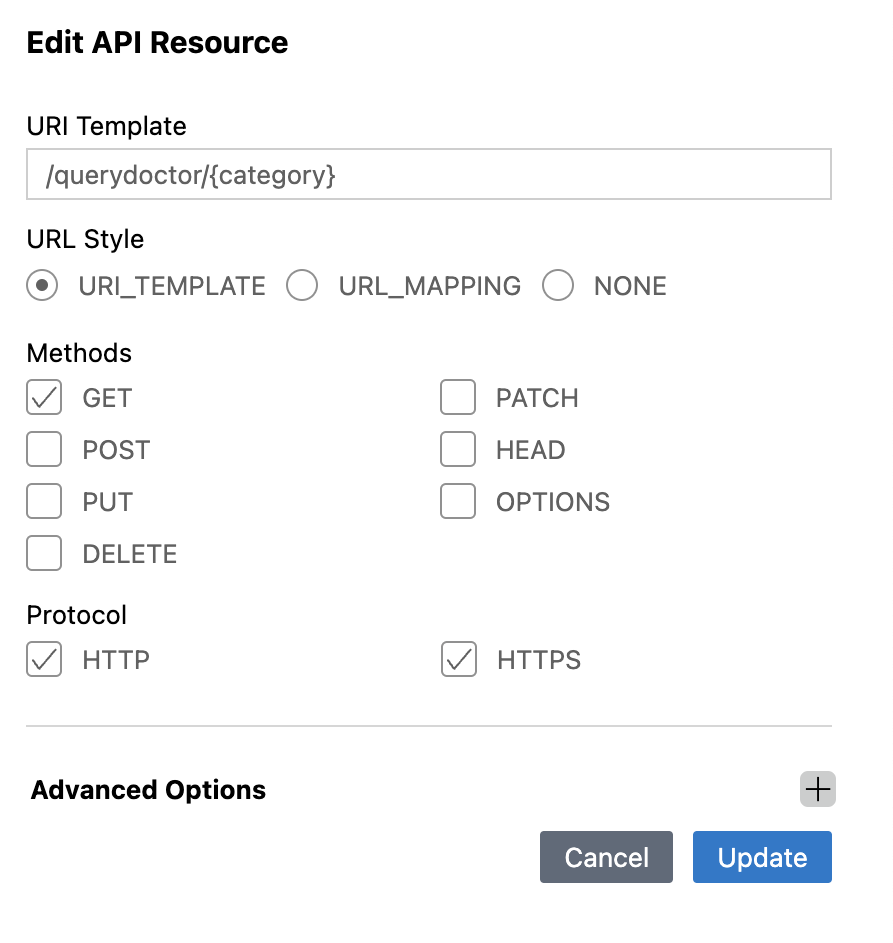
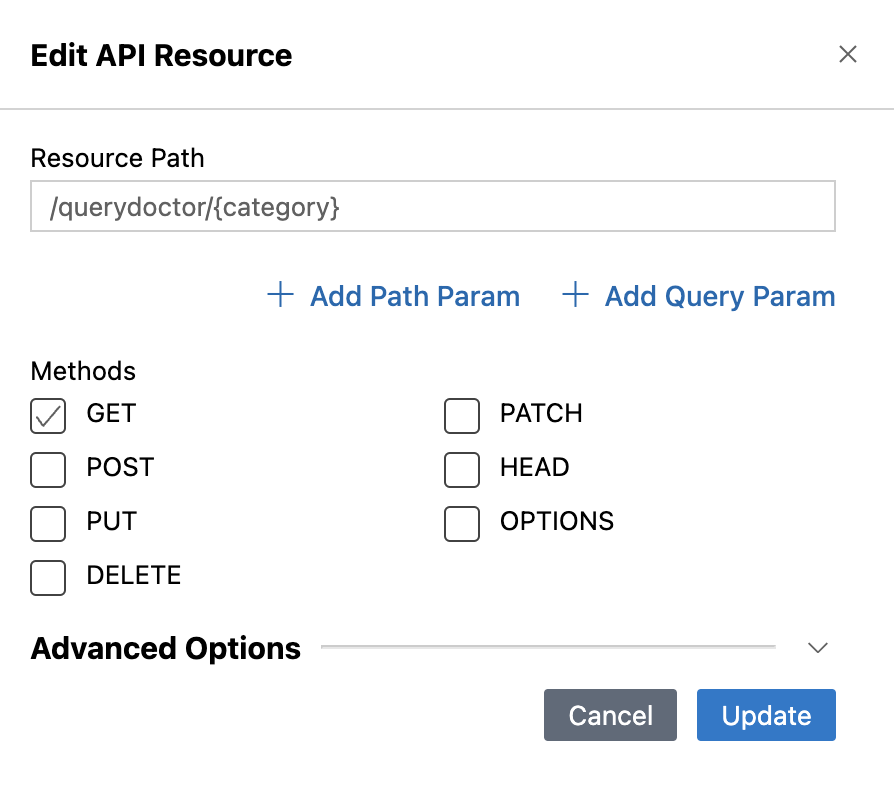
update service catalog tutorial

diff --git a/en/docs/learn/integration-tutorials/service-catalog-tutorial.md b/en/docs/learn/integration-tutorials/service-catalog-tutorial.md
@@ -56,74 +56,54 @@ Follow the instructions given in this section to create and configure the requir
 
 Now let's start designing the integration by adding the necessary artifacts.
 
-#### Create an Endpoint
+#### Create HTTP Connection 
 
-An Endpoint artifact is required to expose the back-end service.
+1. Navigate to **Micro Integrator Project Explorer**.
 
-1. Navigate to the **MI Project Explorer** > **Endpoints**.
+2. Click on the **+** symbol to open the **Add Artifact** pane.
 
-    <a href="{{base_path}}/assets/img/develop/create-artifacts/create-endpoint/create-new-endpoint.png"><img src="{{base_path}}/assets/img/develop/create-artifacts/create-endpoint/create-new-endpoint.png" alt="create new endpoint" width="30%"></a>
+    <a href="{{base_path}}/assets/img/develop/create-artifacts/add-artifact-icon.png"><img src="{{base_path}}/assets/img/develop/create-artifacts/add-artifact-icon.png" alt="add artifact" width="80%"></a>
 
-2. Hover over **Endpoints** and click the **+** icon that appears.
+3. Click **+ View More** under **Create an Integration**.
 
-    <a href="{{base_path}}/assets/img/learn/tutorials/add-endpoint.png"><img src="{{base_path}}/assets/img/learn/tutorials/add-endpoint.png" alt="Add endpoint" width="30%"></a>
+4. Select **Connections** under **Other Artifacts** to open the **Connector Store Form**.
 
-3. Next, select **HTTP Endpoint** type from the **Create Endpoint Artifact** interface.
+5. Select **Http**.
 
-    <a href="{{base_path}}/assets/img/develop/mi-for-vscode/qsg/create-http-endpoint.png"><img src="{{base_path}}/assets/img/develop/mi-for-vscode/qsg/create-http-endpoint.png" alt="Create HTTP Endpoint" width="60%"></a>
-
-4. In the **HTTP Endpoint Form** that appears, specify the following values to create the new endpoint. 
-
+6. In the **Add New Connection** form, specify the following values to create the new HTTP connection.
     <table>
-    <thead>
-      <tr>
-         <th>Property</th>
-         <th>Value</th>
-         <th>Description</th>
-      </tr>
-    </thead>
-    <tbody>
-      <tr>
-         <td>Endpoint Name</td>
-         <td><code>QueryDoctorEP</code></td>
-         <td>The name of the endpoint.</td>
-      </tr>
-      <tr>
-         <td>URI Template</td>
-         <td>
-            <code>http://localhost:9090/healthcare/{uri.var.category}</code>
-         </td>
-         <td>The template for the request URL expected by the back-end service. In this case, the variable 'category' that needs to be included in the request for querying doctors is represented as <code>{uri.var.category}</code> in the template.</td>
-      </tr>
-      <tr>
-         <td>Method</td>
-         <td><code>GET</code></td>
-         <td>Indicates that we are creating this endpoint for GET requests that are sent to the back-end service.</td>
-      </tr>
-     </tbody>
+        <thead>
+          <tr>
+             <th>Property</th>
+             <th>Value</th>
+             <th>Description</th>
+          </tr>
+        </thead>
+        <tbody>
+          <tr>
+             <td>Connection Name</td>
+             <td><code>QueryDoctorConn</code></td>
+             <td>The name of the connection.</td>
+          </tr>
+          <tr>
+             <td>Base URL</td>
+             <td>
+                <code>http://localhost:9090/healthcare</code>
+             </td>
+             <td>The base of the request URL for the back-end service.</td>
+          </tr>
+        </tbody>
     </table>
 
-    <a href="{{base_path}}/assets/img/learn/tutorials/sending-simple-message-to-service/endpoint-artifact.png"><img src="{{base_path}}/assets/img/learn/tutorials/sending-simple-message-to-service/endpoint-artifact.png" alt="endpoint artifact" width="80%"></a>
-
-5. Click **Create**.
-
-    Once the endpoint artifact is created, it will appear on the **MI Overview** interface.    
-
-    <a href="{{base_path}}/assets/img/learn/tutorials/sending-simple-message-to-service/mi-overview-endpoint.png"><img src="{{base_path}}/assets/img/integrate/tutorials/service-catalog/service-catalog-project-overview.png" alt="mi overview endpoint" width="80%"></a>
+4. Click **Add**.
 
 #### Create a REST API
 
 A REST API is required for receiving the client requests and the REST resource within the API will define the mediation logic that will send requests to the Healthcare back-end service and retrieve the available doctor information.
 
-1. Go to **MI Project Explorer** > **APIs**.
+1. Go to **MI Project Explorer** > **+ Add Artifact** > **API**.
 
-    <a href="{{base_path}}/assets/img/develop/create-artifacts/create-rest-api/create-rest-api.png"><img src="{{base_path}}/assets/img/develop/create-artifacts/create-rest-api/create-rest-api.png" alt="create new api" width="30%"></a>
-
-2. Hover over **APIs** and click the **+** icon that appears to open the **API Form**.
-
-    <a href="{{base_path}}/assets/img/learn/tutorials/add-api.png"><img src="{{base_path}}/assets/img/learn/tutorials/add-api.png" alt="add API" width="30%"></a>
-
-3. Specify values for the required REST API properties:
+2. Specify values for the required REST API properties:
 
     <table>
       <tr>
@@ -142,26 +122,26 @@ A REST API is required for receiving the client requests and the REST resource w
         <td>Context</td>
         <td><code>/healthcare</code></td>
         <td>
-          Here you are anchoring the API in the <code>/healthcare </code> context. This will become part of the name of the generated URL used by the client when sending requests to the Healthcare service. For example, setting the context to <code>/healthcare</code> means that the API will only handle HTTP requests where the URL path starts with <code>http://host:port/healthcare<code>.
+          Here you are anchoring the API in the <code>/healthcare </code> context. This will become part of the name of the generated URL used by the client when sending requests to the Healthcare service. For example, setting the context to <code>/healthcare</code> means that the API will only handle HTTP requests where the URL path starts with <code>http://host:port/healthcare</code>.
         </td>
       </tr>
     </table>
 
     <a href="{{base_path}}/assets/img/integrate/tutorials/service-catalog/synapse-api-creation-form.png"><img src="{{base_path}}/assets/img/integrate/tutorials/service-catalog/synapse-api-creation-form.png" alt="synapse API artifact" width="80%"></a>
 
-4. Click **Create**. This opens the **Service Designer** interface.
+3. Click **Create**. This opens the **Service Designer** interface.
 
     You can now start configuring the API resource.
 
-5. Click on the `GET` API resource under **Available resources** on the **Service Designer**.
+4. Click on the `GET` API resource under **Available resources** on the **Service Designer**.
 
     You will now see the graphical view of the `HealthcareAPI` with its default API Resource.
 
-6. Click the **Edit** icon to edit the API resource.
+5. Click the **Edit** icon to edit the API resource.
 
     <a href="{{base_path}}/assets/img/learn/tutorials/sending-simple-message-to-service/edit-icon.png"><img src="{{base_path}}/assets/img/learn/tutorials/sending-simple-message-to-service/edit-icon.png" alt="edit icon" width="80%"></a>
 
-7. Specify values for the required resource properties:
+6. Specify values for the required resource properties:
 
     <table>
       <tr>
@@ -169,15 +149,9 @@ A REST API is required for receiving the client requests and the REST resource w
         <th>Description</th>
       </tr>
       <tr>
-        <td>URI-Template</td>
+        <td>Resource Path</td>
         <td>
           <code>/querydoctor/{category}</code> </br> This defines the request URL format. In this case, the full request URL format is <code>http://host:port/querydoctor/{category}</code> where <code>{category}</code> is a variable.
-        </td>
-      </tr>
-      <tr>
-        <td>URL Style</td>
-        <td>
-          <code>URI_TEMPLATE</code>
         </td>
       </tr>
       <tr>
@@ -190,7 +164,7 @@ A REST API is required for receiving the client requests and the REST resource w
 
     <a href="{{base_path}}/assets/img/learn/tutorials/sending-simple-message-to-service/edit-api-resource.png"><img src="{{base_path}}/assets/img/learn/tutorials/sending-simple-message-to-service/edit-api-resource.png" alt="edit API resource" width="40%"></a>
 
-8. Click **Update**.
+7. Click **Update**.
 
 #### Create the mediation logic
 
@@ -200,100 +174,87 @@ You can now configure the mediation logic to handle requests.
 
     <a href="{{base_path}}/assets/img/learn/tutorials/sending-simple-message-to-service/add-log.png"><img src="{{base_path}}/assets/img/learn/tutorials/sending-simple-message-to-service/add-log.png" alt="add log" width="80%"></a>
 
-2. Select **Log** mediator in the **Generic** section under **All Mediators**. The Log mediator logs messages when the request is received by the API resource. In this scenario, let's configure the Log mediator to display the following message: “Welcome to the HealthcareService”.
+2. Select **Log** mediator in the **Mediators** section. The Log mediator logs messages when the request is received by the API resource. In this scenario, let's configure the Log mediator to display the following message: “Welcome to the HealthcareService”.
 
 3. Once you select the Log mediator, the **Log** pane will be opened. Fill in the information in the table below:
-    <table>
-  <tr>
-     <th>Field</th>
-     <th>Value</th>
-     <th>Description</th>
-  </tr>
-<tbody>
-  <tr>
-     <td>Log Category</td>
-     <td><code>INFO</code></td>
-     <td>Indicates that the log contains an informational message.</td>
-  </tr>
-  <tr>
-     <td>Log Level</td>
-     <td><code>Custom</code></td>
-     <td>When <code>Custom</code> is selected, only specified properties will be logged by this mediator.
-     </td>
-  </tr>
-  <tr>
-     <td>Log Separator</td>
-     <td><code>(blank)</code></td>
-     <td>Since there is only one property that is being logged, you do not require a separator. Therefore, leave this field blank.</td>
-  </tr>
-  <tr>
-     <td>Properties</td>
-     <td><br />
-     </td>
-     <td>
-        <div class="content-wrapper">
-           1. To edit the **Properties** and print a welcome message in the log, click **Add Parameter**. <br />
-               <a href="{{base_path}}/assets/img/learn/tutorials/sending-simple-message-to-service/add-parameter.png"><img src="{{base_path}}/assets/img/learn/tutorials/sending-simple-message-to-service/add-parameter.png" alt="add-parameter" width="30%"></a>, <br />
-           2. Then add the following values:<br />
-           <ul>
-              <li><strong>Property Name</strong>: <code>Log Property message</code></li>
-              </li>
-              <li><strong>Property Value</strong> : <code>"Welcome to HealthcareService"</code></li>
-           </ul>
-           <p>
-           <a href="{{base_path}}/assets/img/learn/tutorials/sending-simple-message-to-service/log-property.png"><img src="{{base_path}}/assets/img/learn/tutorials/sending-simple-message-to-service/log-property.png" alt="log-property" width="30%"></a></p> <br />
-         3. Click **Save** to save the properties.
-        </div>
-     </td>
-  </tr>
-  <tr>
-     <td>Description</td>
-     <td><code>Request Log</code></td>
-     <td>The <strong>Description</strong> field provides the name that appears for the Log mediator icon in the design view.</td>
+<table>
+    <tr>
+         <th>Field</th>
+         <th>Value</th>
+         <th>Description</th>
     </tr>
+    <tbody>
+        <tr>
+             <td>Log Category</td>
+             <td><code>INFO</code></td>
+             <td>Indicates that the log contains an informational message.</td>
+        </tr>
+        <tr>
+             <td>Message</td>
+             <td><code>Welcome to HealthcareService</code></td>
+             <td>Indicates the message.</td>
+        </tr> 
+        <tr>
+             <td>Description</td>
+             <td><code>Request Log</code></td>
+             <td>The <strong>Description</strong> field provides the name that appears for the Log mediator icon in the design view.</td>
+        </tr>
     </tbody>
+</table>
+
+4. Click **Submit** to save the Log mediator configuration.
+
+    Let's configure a `GET` operation to send the request message to the `HealthcareService` endpoint and receive the response message.
+
+5. Click on the **+** icon in the sequence to add a **GET** operation for **QueryDoctorConn** after the Log mediator.
+From the palette, select **Mediators** > **HTTP** > **GET** operation.
+
+    <a href="{{base_path}}/assets/img/learn/tutorials/sending-simple-message-to-service/http-connector-get-operation.png"><img src="{{base_path}}/assets/img/learn/tutorials/sending-simple-message-to-service/http-connector-get-operation.png" alt="http connector get operation" width="30%"></a>
+
+6. Once the **GET** operation form is opened, fill in the information in the table below:
+
+    <table>
+        <tr>
+             <th>Field</th>
+             <th>Value</th>
+             <th>Description</th>
+        </tr>
+        <tbody>
+            <tr>
+                 <td>Connection</td>
+                 <td><code>QueryDoctorConn</code></td>
+                 <td>The connection to be used to execute the operation.</td>
+            </tr>
+            <tr>
+                 <td>Relative Path</td>
+                 <td><code>/${params.uriParams.category}</code></td>
+                 <td>Indicates the relative path added to the base URL of the connection. In this case, 
+    the variable 'category' that needs to be included in the request for querying doctors is represented as 
+    <code>{params.uriParams.category}</code> in the relative path.</td>
+            </tr>
+        </tbody>
     </table>
-
-3.  Click **Submit** to save the Log mediator configuration.
-
-    Let's configure a **Call** mediator to send the request message to the `HealthcareService` endpoint and receive the response message.
-
-4. Click on the **+** icon in the sequence to add a Call mediator after the Log mediator.
-
-    <a href="{{base_path}}/assets/img/learn/tutorials/sending-simple-message-to-service/add-call.png"><img src="{{base_path}}/assets/img/learn/tutorials/sending-simple-message-to-service/add-call.png" alt="add call" width="80%"></a>
-
-5. From the **Palette**, select **Call Endpoint** mediator under the **Mediators** > **Generic** section.
-
-    <a href="{{base_path}}/assets/img/learn/tutorials/sending-simple-message-to-service/call-endpoint-mediator.png"><img src="{{base_path}}/assets/img/learn/tutorials/sending-simple-message-to-service/call-endpoint-mediator.png" alt="call endpoint mediator" width="30%"></a>
-
-6. From the **Call Endpoint** pane, select the **QueryDoctorEP** endpoint, which we created in a previous step.
-
-    <a href="{{base_path}}/assets/img/learn/tutorials/sending-simple-message-to-service/call-endpoint.png"><img src="{{base_path}}/assets/img/learn/tutorials/sending-simple-message-to-service/call-endpoint.png" alt="call endpoint" width="30%"></a>
 
 7. Click **Submit**.
 
-    Now let's add a **Respond** mediator at the end of the in sequence to send the response message from the healthcare service back to the client.
+    Now let's add a **Respond** mediator at the end of the sequence to send the response message from the healthcare service back to the client.
 
-8. Click on the **+** icon in the sequence to add a Respond mediator after the Call mediator.
+8. Click on the **+** icon below the **GET** operation in the sequence to add a Respond mediator.
 
-    <a href="{{base_path}}/assets/img/learn/tutorials/sending-simple-message-to-service/add-respond.png"><img src="{{base_path}}/assets/img/learn/tutorials/sending-simple-message-to-service/add-respond.png" alt="add respond" width="80%"></a>
-
-9. From the **Palette**, select **Respond** mediator under the **Mediators** > **Generic** section.
-
-    <a href="{{base_path}}/assets/img/learn/tutorials/sending-simple-message-to-service/respond-mediator.png"><img src="{{base_path}}/assets/img/learn/tutorials/sending-simple-message-to-service/respond-mediator.png" alt="respond mediator" width="30%"></a>
+9. From the Palette, select **Respond** mediator under the **Mediators** section.
 
 10. Click **Submit**.
 
 You have successfully created all the artifacts that are required for sending a request through the Micro Integrator to the back-end service.
 
-<a href="{{base_path}}/assets/img/learn/tutorials/sending-simple-message-to-service/integration-sequence.png"><img src="{{base_path}}/assets/img/learn/tutorials/sending-simple-message-to-service/integration-sequence.png" alt="integration sequence" width="80%"></a>
+<a href="{{base_path}}/assets/img/learn/tutorials/sending-simple-message-to-service/integration-sequence-with-http-connector.png"><img src="{{base_path}}/assets/img/learn/tutorials/sending-simple-message-to-service/integration-sequence-with-http-connector.png" alt="integration sequence with http connector" width="80%"></a>
 
 ### Step 3: Configure the Micro Integrator
 
 !!! info "Prerequisites"
     Before you begin, install Micro Integrator on your machine:
 
-    1. Go to the [WSO2 Micro Integrator web page](https://wso2.com/integration/micro-integrator/#), click **Download**, provide necessary details, and then click **Zip Archive** to download the Micro Integrator distribution as a ZIP file.
+    1. Go to the [WSO2 Micro Integrator web page](https://wso2.com/integration/micro-integrator/#), click **Download**, provide the necessary details, and then click **Zip Archive** to download the Micro Integrator distribution as a ZIP file.
     
     2. Extract the ZIP file. The extracted folder will be referred to as the `<MI_HOME>` folder.
 
@@ -315,7 +276,7 @@ Let's enable this feature in the Micro Integrator.
     ```
 
 !!! Note
-    Since the integration developer may not know the API URL when it gets deployed in the Micro Integrator, the URL of the API will be parameterize as `https://{MI_HOST}:{MI_PORT}/healthcare` which will be resolved later using environment variables `MI_HOST` and `MI_PORT` respectively. By default, `localhost` will be used as the `MI_HOST` and `8253` as the `MI_PORT`. Depending on your deployment, you may need to update these environment variables.
+    Since the integration developer may not know the API URL when it gets deployed in the Micro Integrator, the URL of the API will be parameterized as `https://{MI_HOST}:{MI_PORT}/healthcare` which will be resolved later using environment variables `MI_HOST` and `MI_PORT` respectively. By default, `localhost` will be used as the `MI_HOST` and `8253` as the `MI_PORT`. Depending on your deployment, you may need to update these environment variables.
 
 ### Step 4: Start the API Manager runtime
 
@@ -340,7 +301,7 @@ Let's start the API Manager runtime before starting the Micro Integrator.
 
 6. Run the project.
 
-    Click the **Build and Run** icon located on the top right corner of the VS Code.
+    Click the **Build and Run** icon located in the top right corner of the VS Code.
 
     <a href="../../../assets/img/develop/mi-for-vscode/qsg/build-and-run.png"><img src="../../../assets/img/develop/mi-for-vscode/qsg/build-and-run.png" alt="Build and run" width="25%"></a>
 
